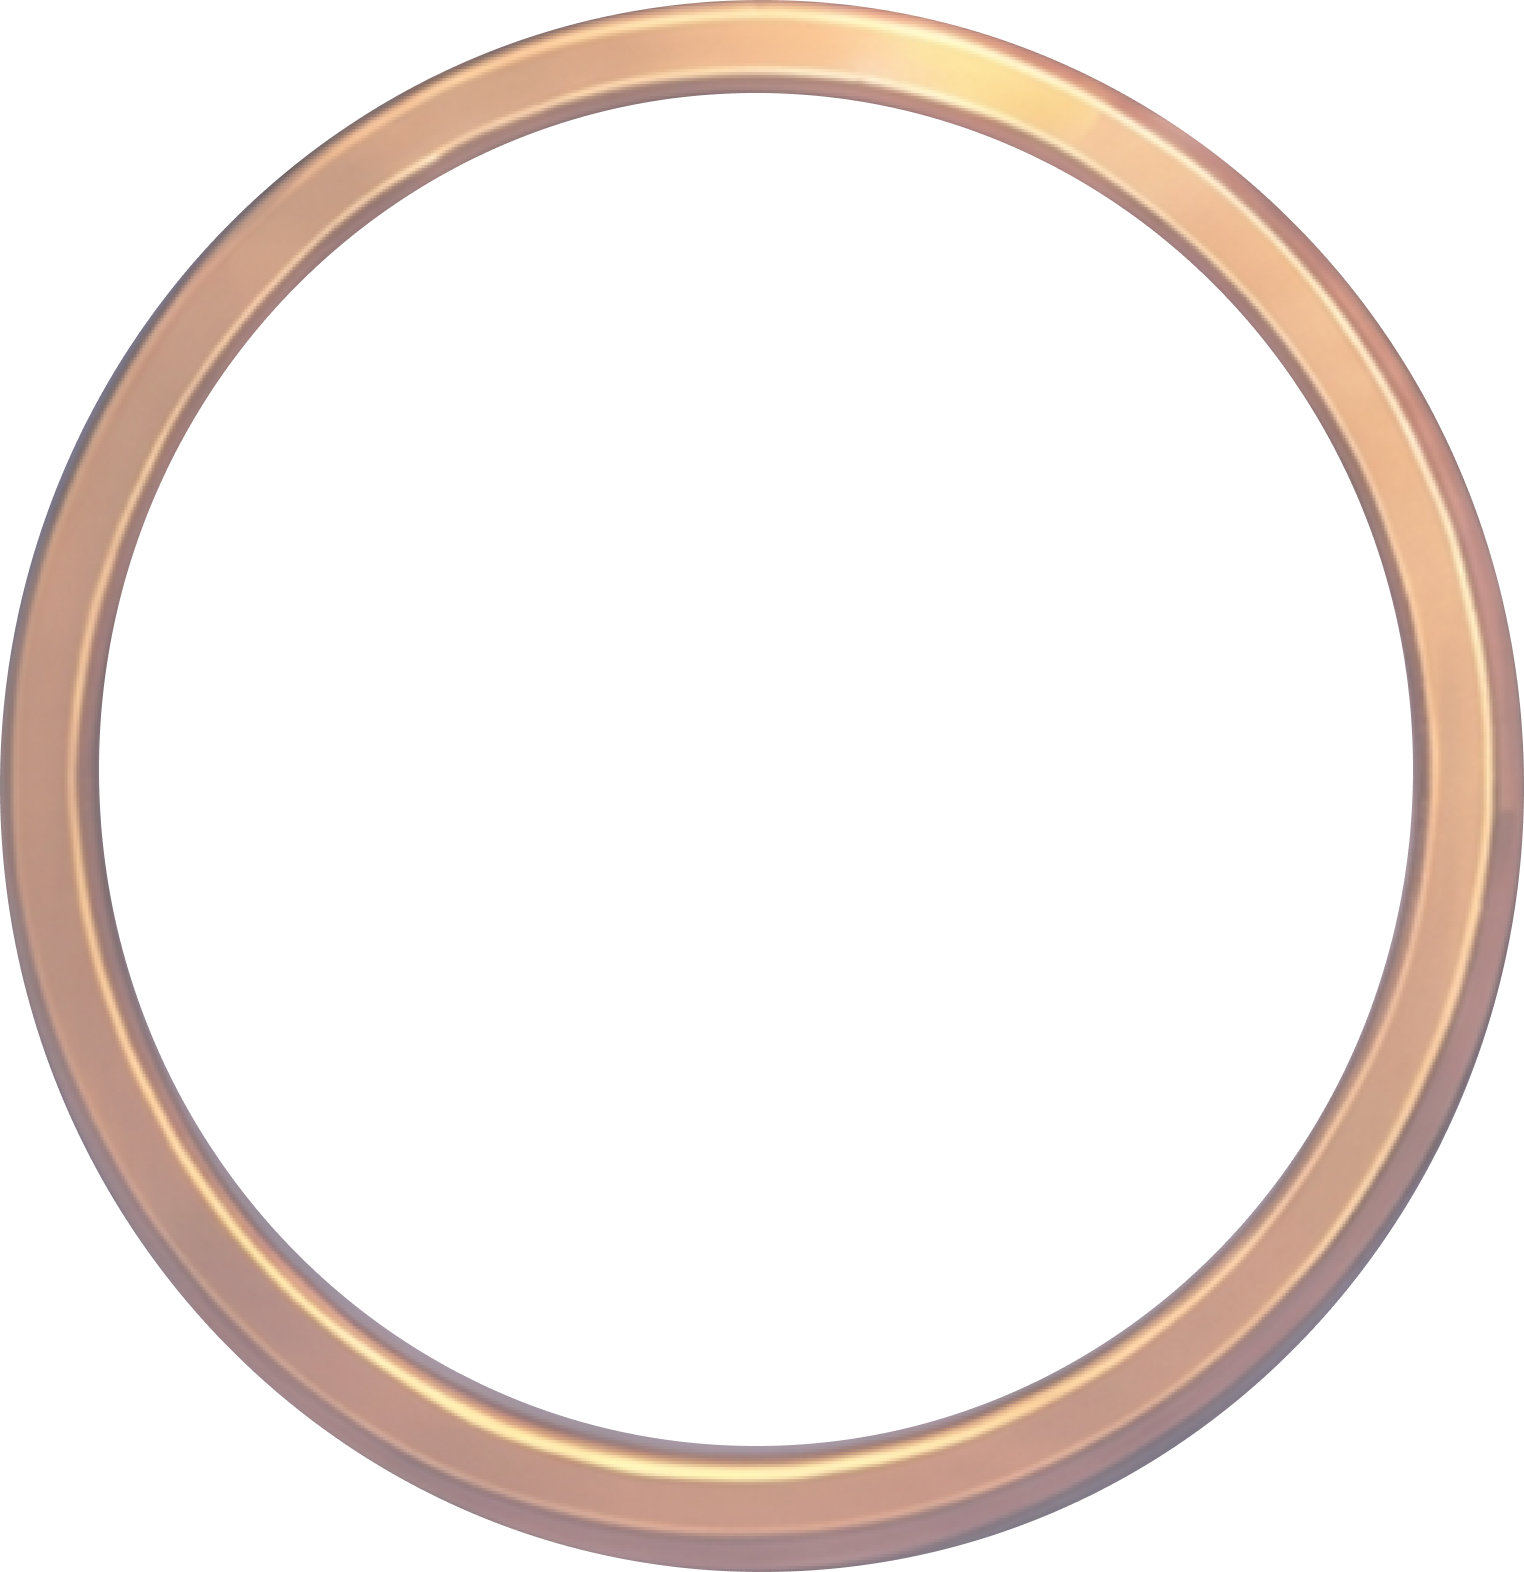
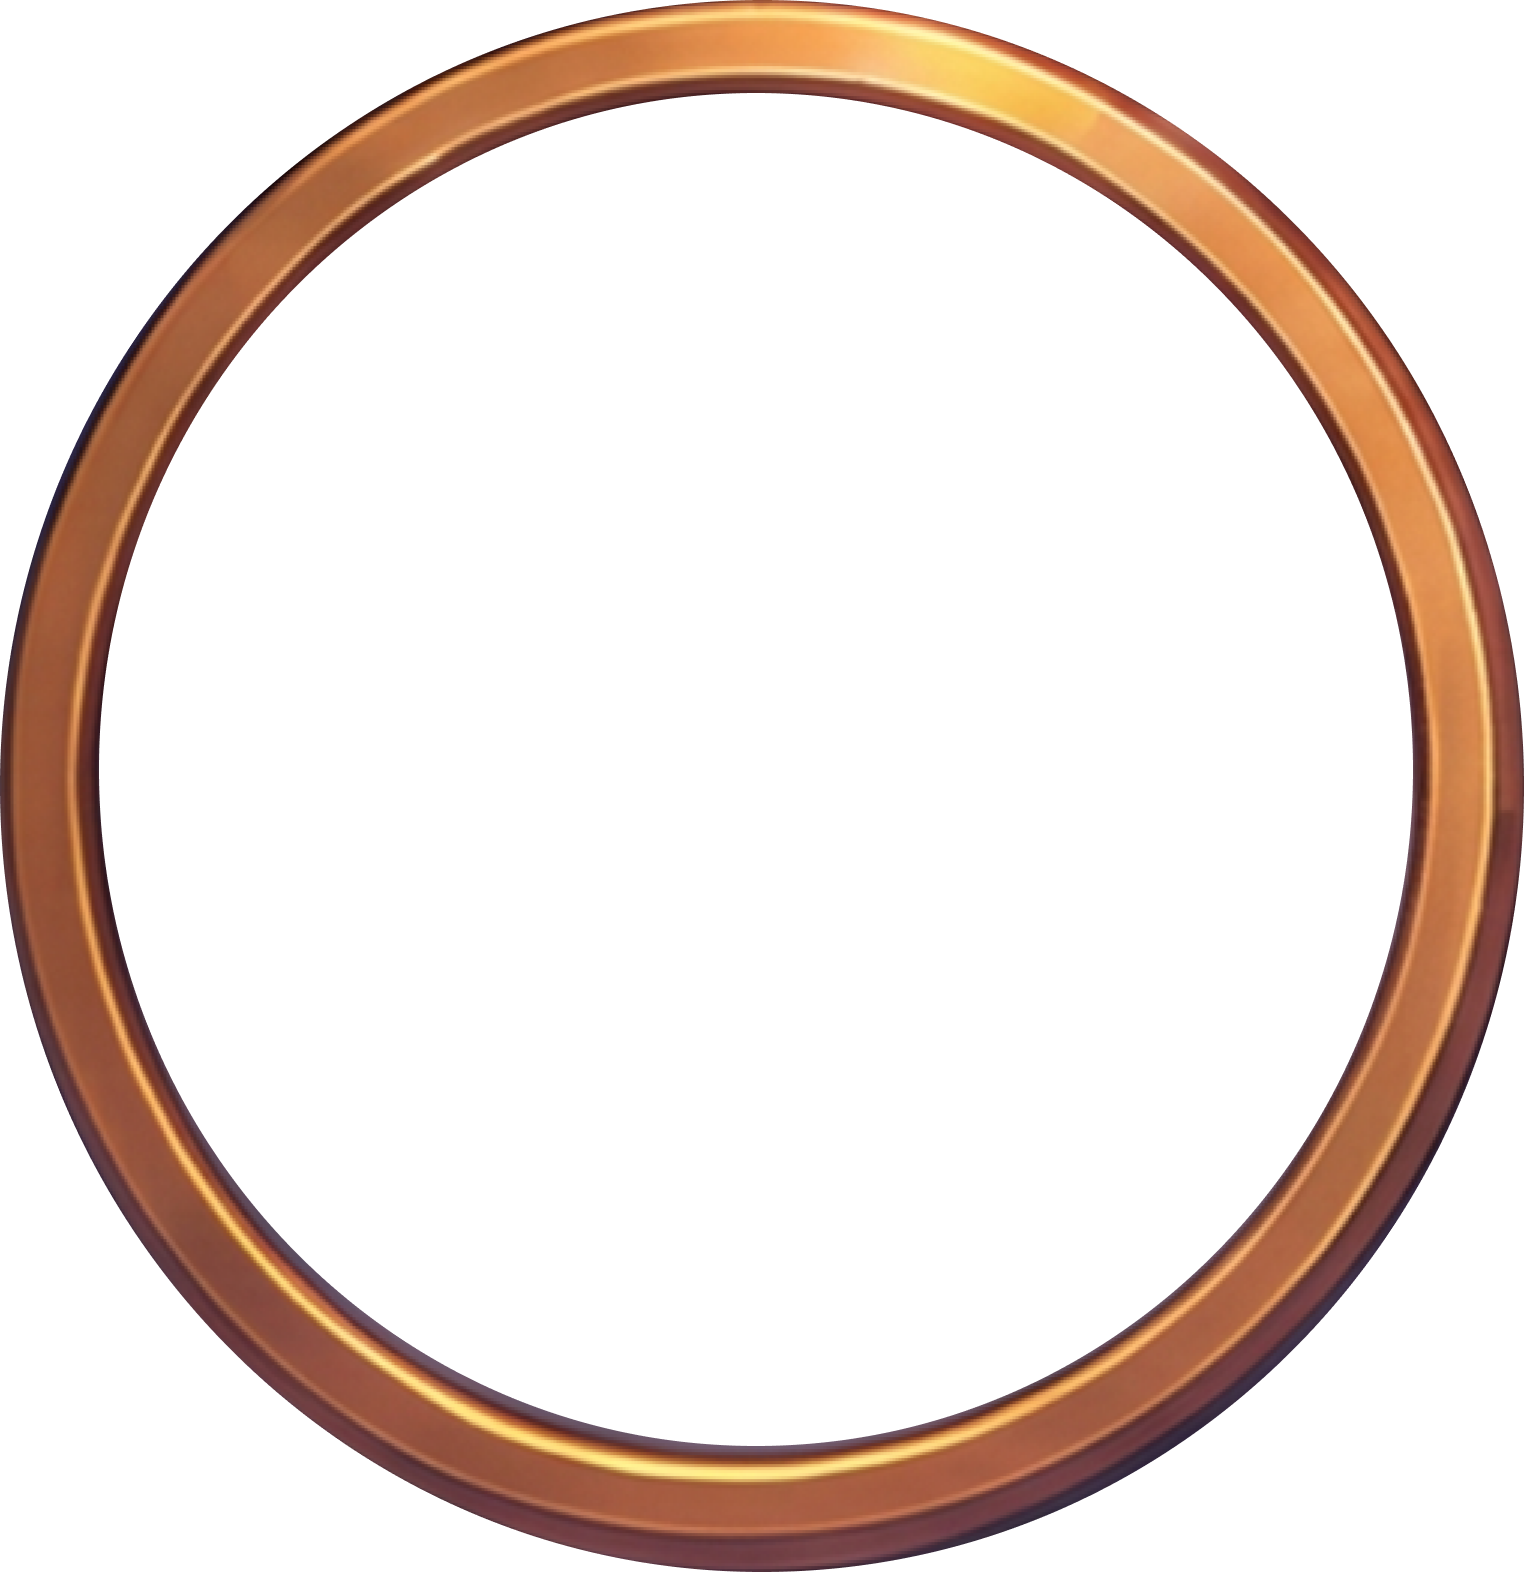
feat(ui): bake the ceremony AV tuning pass + the transparent ring art
Owner values from the 🎭 tuner: quick travel (focusMs 400), transform
starts during the settle (825) and runs fast (350ms) so the portrait is
resolved before the flash; reveal + flash paired at 1320; art 1.26× inside
a 704px ring. heroportrait.png swapped for the non-opaque version.

Changed region(s): [[0.0, 0.0, 1.0, 1.0]]

diff --git a/packages/ui/src/hero-select/heroCeremonyTunerConfig.ts b/packages/ui/src/hero-select/heroCeremonyTunerConfig.ts
@@ -64,16 +64,17 @@ export type HscTunerConfig = HeroCeremonyTiming & HscLayout & HscFx;
 // and power lifted ~190px, the button up with them at 1.23×.
 const LAYOUT_DEFAULTS: HscLayout = { nameX: 0, nameY: -188, nameSize: 53, powerX: 0, powerY: -194, powerSize: 16, btnX: 0, btnY: -161, btnScale: 1.23 };
 
-/** First-guess placements (owner will dial them): song from the click, wooshes on the exits and the settle,
- *  reveal + flash together mid-transform, ring sized to hug the grown portrait. */
+/** Owner-tuned 2026-08-21: song from the click, wooshes on the exits (100) and the settle (640), reveal +
+ *  flash paired at 1320 — after the fast transform finishes (825+350) — with the art at 1.26× inside a big
+ *  704px ring. */
 const FX_DEFAULTS: HscFx = {
   songOn: 1, songAtMs: 0, songVol: 0.7,
   woosh1On: 1, woosh1AtMs: 100, woosh1Vol: 0.9,
   woosh2On: 1, woosh2AtMs: 640, woosh2Vol: 0.9,
-  revealOn: 1, revealAtMs: 1250, revealVol: 1,
-  flashAtMs: 1250,
-  portraitX: 0, portraitY: 0, portraitScale: 1,
-  ringX: 0, ringY: 0, ringSize: 380,
+  revealOn: 1, revealAtMs: 1320, revealVol: 1,
+  flashAtMs: 1320,
+  portraitX: 0, portraitY: 0, portraitScale: 1.26,
+  ringX: 0, ringY: 0, ringSize: 704,
 };
 const LAYOUT_KEYS = Object.keys(LAYOUT_DEFAULTS) as (keyof HscLayout)[];
 

diff --git a/packages/ui/src/hero-select/heroCeremonyTiming.ts b/packages/ui/src/hero-select/heroCeremonyTiming.ts
@@ -44,9 +44,9 @@ export interface HeroCeremonyTiming {
   launchRevealMs: number;
 }
 
-/** Owner-tuned defaults (second pass 2026-08-21, dialed live in the 🎭 tuner over the blueprint's §4
- *  values): a weightier travel than the blueprint (540+200 vs 560+140) with the arrival burst on the settle
- *  (880) instead of the approach. Still ~1.9s from click to an interactive Start Game. */
+/** Owner-tuned defaults (third pass 2026-08-21, dialed live in the 🎭 tuner): a quick travel (400+200), the
+ *  transform starting DURING the settle (825) and running fast (350ms) so the portrait is fully resolved
+ *  well before the 1320ms ring flash. Arrival burst rides the settle at 880. Still ~1.9s to Start Game. */
 export const HERO_CEREMONY_TIMING: HeroCeremonyTiming = {
   pressMs: 90,
   headerExitDelayMs: 80,
@@ -54,12 +54,12 @@ export const HERO_CEREMONY_TIMING: HeroCeremonyTiming = {
   optionExitMs: 330,
   optionStaggerMs: 35,
   focusDelayMs: 120,
-  focusMs: 540,
+  focusMs: 400,
   settleMs: 200,
   arrivalAtMs: 880,
   voiceAtMs: 700,
-  transformAtMs: 950,
-  transformMs: 700,
+  transformAtMs: 825,
+  transformMs: 350,
   identityAtMs: 1450,
   readyAtMs: 1650,
   readyMs: 250,
